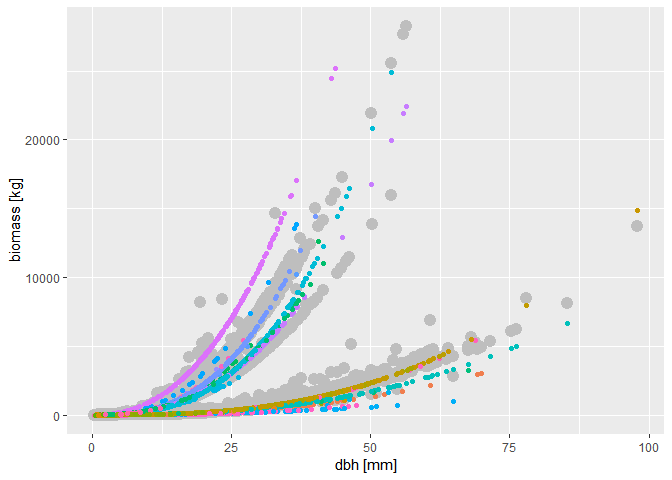
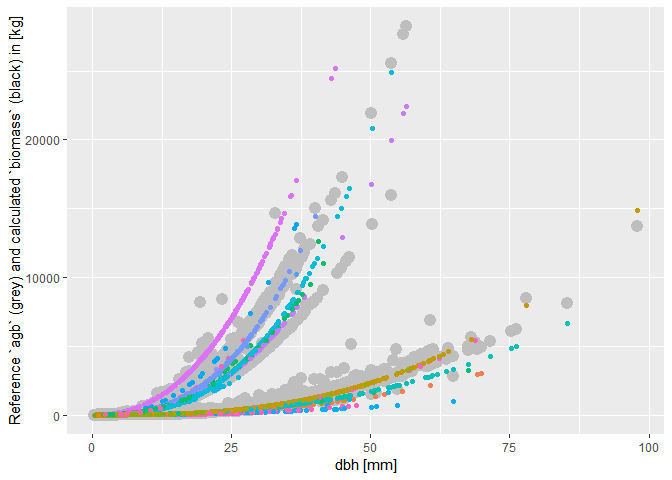
Polish dbh vs biomass

Changed region(s): [[0.0, 0.0312, 0.0312, 0.875]]

diff --git a/.buildignore/dbh-vs-biomass.md b/.buildignore/dbh-vs-biomass.md
@@ -4,12 +4,12 @@ Plot dbh vs. biomass by species
 ``` r
 # Setup
 library(tidyverse)
-#> -- Attaching packages ------------------------------------------------------------------------- tidyverse 1.2.1 --
+#> -- Attaching packages --------------------------------------------- tidyverse 1.2.1 --
 #> v ggplot2 3.1.0       v purrr   0.3.1  
 #> v tibble  2.0.1       v dplyr   0.8.0.1
 #> v tidyr   0.8.3       v stringr 1.4.0  
 #> v readr   1.3.1       v forcats 0.4.0
-#> -- Conflicts ---------------------------------------------------------------------------- tidyverse_conflicts() --
+#> -- Conflicts ------------------------------------------------ tidyverse_conflicts() --
 #> x dplyr::filter() masks stats::filter()
 #> x dplyr::lag()    masks stats::lag()
 library(fgeo.biomass)
@@ -156,7 +156,7 @@ census_equations_biomass %>%
   # Removing the legend to keep the plot simple
   geom_point(aes(y = biomass, color = sp)) +
   guides(color = "none") +
-  ylab("biomass [kg]") +
+  ylab("Reference `agb` (grey) and calculated `biomass` (black) in [kg]") +
   xlab("dbh [mm]")
 #> Warning: Removed 1209 rows containing missing values (geom_point).
 #> Warning: Removed 2028 rows containing missing values (geom_point).
@@ -175,11 +175,12 @@ census_equations_biomass %>%
   mutate(agb_kg = agb * 1e3) %>% 
   ggplot(aes(x = dbh)) +
   geom_hline(yintercept = 1e4, color = "red") +
-  geom_point(aes(y = agb_kg), size = 0.3) +
-  geom_point(aes(y = biomass)) +
+  geom_point(aes(y = agb_kg), size = 1.5, color = "grey") +
+  geom_point(aes(y = biomass), size = 1, color = "black") +
   facet_wrap("sp", ncol = 4) +
   ylab("Reference `agb` (grey) and calculated `biomass` (black) in [kg]") +
-  xlab("dbh [mm]")
+  xlab("dbh [mm]") +
+  theme_bw()
 #> Warning: Removed 1209 rows containing missing values (geom_point).
 #> Warning: Removed 2028 rows containing missing values (geom_point).
 ```
